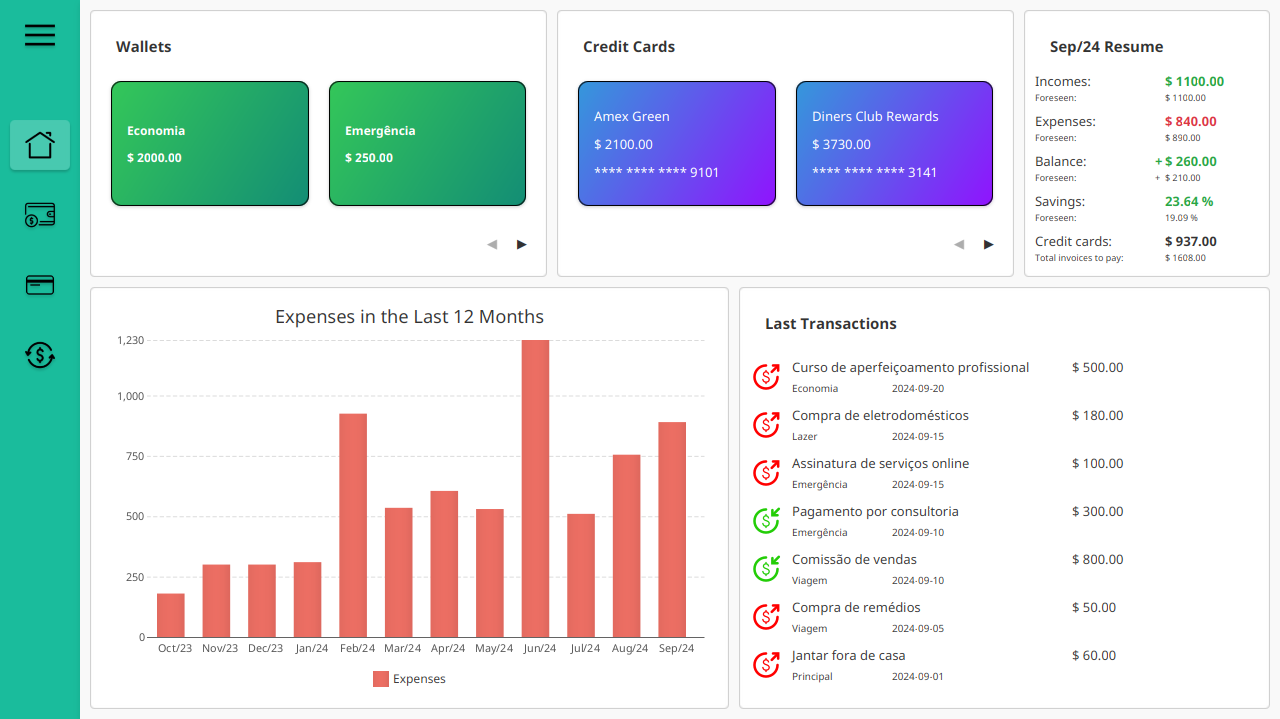
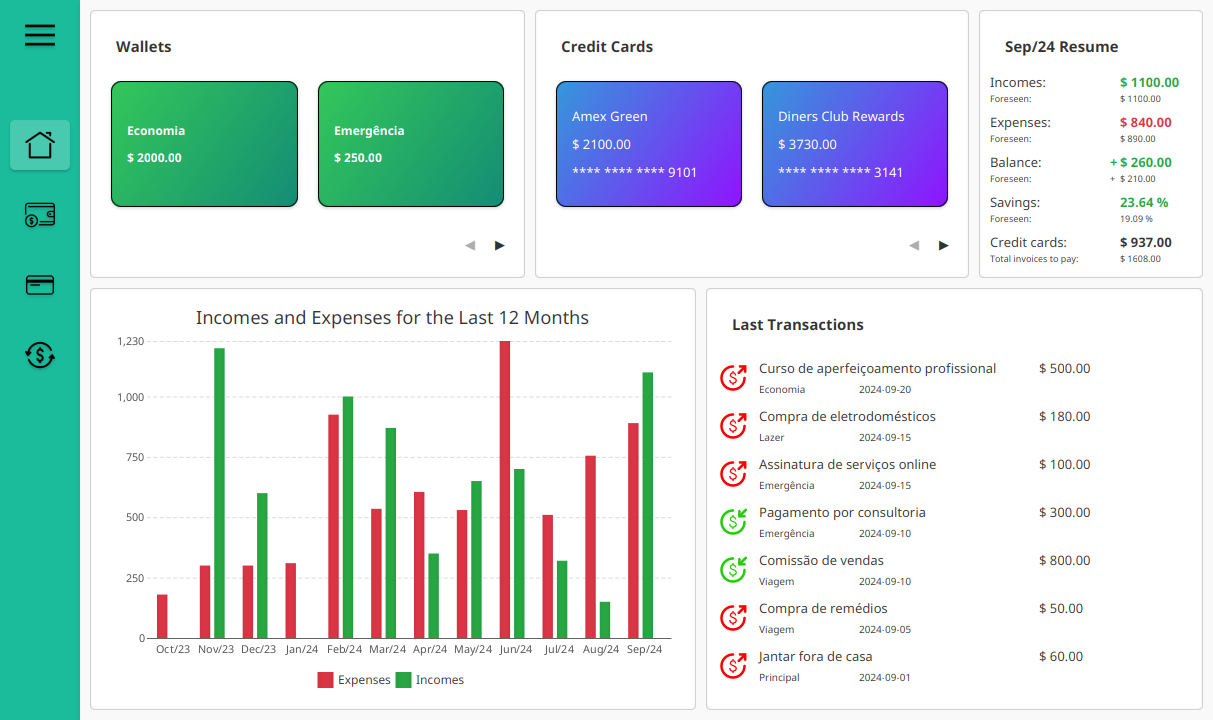
Adicioner incomes ao gráfico de barras

diff --git a/src/main/resources/css/home.css b/src/main/resources/css/home.css
@@ -113,7 +113,11 @@
   -fx-alignment: CENTER_LEFT;
 }
 .default-color0.chart-bar {
-  -fx-bar-fill: #ec7063;
+  -fx-bar-fill: #dc3545;
+}
+
+.default-color1.chart-bar {
+  -fx-bar-fill: #28a745;
 }
 
 .chart-plot-background {

diff --git a/src/main/java/com/mymoney/ui/HomeController.java b/src/main/java/com/mymoney/ui/HomeController.java
@@ -74,7 +74,7 @@ public class HomeController
     private VBox lastTransactionsVBox;
 
     @FXML
-    private BarChart<String, Double> expensesLast12Months;
+    private BarChart<String, Double> transactionsLast12Months;
 
     @FXML
     private Label monthResumePaneTitle;
@@ -157,7 +157,7 @@ public class HomeController
         UpdateDisplayWallets();
         UpdateDisplayCreditCards();
         UpdateDisplayLastTransactions();
-        UpdateChartExpensesLast12Months();
+        UpdateChartIncomesAndExpensesLast12Months();
         UpdateMonthResume();
 
         SetButtonsActions();
@@ -377,116 +377,141 @@ public class HomeController
     }
 
     /**
-     * Update the expenses chart
+     * Update the chart with incomes and expenses for the last 12 months
      */
-    private void UpdateChartExpensesLast12Months()
+    private void UpdateChartIncomesAndExpensesLast12Months()
     {
-        Map<String, Double> monthlyExpenses =
-            new LinkedHashMap<>(); // To keep the order
+        // LinkedHashMap to keep the order of the months
+        Map<String, Double> monthlyExpenses = new LinkedHashMap<>();
+        Map<String, Double> monthlyIncomes  = new LinkedHashMap<>();
 
         LocalDate         currentDate = LocalDate.now();
         DateTimeFormatter formatter   = DateTimeFormatter.ofPattern("MMM/yy");
 
+        // Collect data for the last 12 months
         for (Integer i = 0; i < Constants.HOME_BAR_CHART_MONTHS; i++)
         {
             // Get the data from the oldest month to the most recent, to keep the order
-            // in the chart
             LocalDate date =
                 currentDate.minusMonths(Constants.HOME_BAR_CHART_MONTHS - i - 1);
-
             Integer month = date.getMonthValue();
             Integer year  = date.getYear();
 
+            // Get transactions
             List<WalletTransaction> transactions =
                 walletService.GetAllTransactionsByMonth(month, year);
-
             m_logger.info("Found " + transactions.size() + " transactions for " +
                           month + "/" + year);
 
-            Double total = transactions.stream()
-                               .filter(t -> t.GetType() == TransactionType.EXPENSE)
-                               .mapToDouble(WalletTransaction::GetAmount)
-                               .sum();
+            // Calculate total expenses for the month
+            Double totalExpenses =
+                transactions.stream()
+                    .filter(t -> t.GetType() == TransactionType.EXPENSE)
+                    .mapToDouble(WalletTransaction::GetAmount)
+                    .sum();
 
-            monthlyExpenses.put(date.format(formatter), total);
+            // Calculate total incomes for the month
+            Double totalIncomes =
+                transactions.stream()
+                    .filter(t -> t.GetType() == TransactionType.INCOME)
+                    .mapToDouble(WalletTransaction::GetAmount)
+                    .sum();
+
+            monthlyExpenses.put(date.format(formatter), totalExpenses);
+            monthlyIncomes.put(date.format(formatter), totalIncomes);
         }
 
-        // Get the maximum value to set the axis
-        Double maxExpenseValue = 0.0;
+        // Create two series: one for incomes and one for expenses
+        XYChart.Series<String, Double> expensesSeries = new XYChart.Series<>();
+        expensesSeries.setName("Expenses");
 
-        XYChart.Series<String, Double> series = new XYChart.Series<>();
-        series.setName("Expenses");
+        XYChart.Series<String, Double> incomesSeries = new XYChart.Series<>();
+        incomesSeries.setName("Incomes");
 
+        Double maxValue = 0.0;
+
+        // Add data to each series
         for (Map.Entry<String, Double> entry : monthlyExpenses.entrySet())
         {
-            series.getData().add(new XYChart.Data<>(entry.getKey(), entry.getValue()));
-            maxExpenseValue = Math.max(maxExpenseValue, entry.getValue());
+            String month        = entry.getKey();
+            Double expenseValue = entry.getValue();
+            Double incomeValue  = monthlyIncomes.getOrDefault(month, 0.0);
+
+            expensesSeries.getData().add(new XYChart.Data<>(month, expenseValue));
+            incomesSeries.getData().add(new XYChart.Data<>(month, incomeValue));
+
+            maxValue = Math.max(maxValue, Math.max(expenseValue, incomeValue));
         }
 
-        // Set the maximum value for the Y axis as the maximum expense value
-        Axis<?> yAxis = expensesLast12Months.getYAxis();
+        // Set Y-axis limits based on the maximum value found
+        Axis<?> yAxis = transactionsLast12Months.getYAxis();
         if (yAxis instanceof NumberAxis)
         {
             NumberAxis numberAxis = (NumberAxis)yAxis;
             numberAxis.setAutoRanging(false);
             numberAxis.setLowerBound(0);
-            numberAxis.setUpperBound(maxExpenseValue);
+            numberAxis.setUpperBound(maxValue);
             numberAxis.setTickUnit(Constants.HOME_BAR_CHART_TICK_UNIT);
         }
 
-        expensesLast12Months.setVerticalGridLinesVisible(false);
-        expensesLast12Months.setTitle("Expenses in the Last " +
-                                      Constants.HOME_BAR_CHART_MONTHS + " Months");
+        transactionsLast12Months.setVerticalGridLinesVisible(false);
+        transactionsLast12Months.setTitle("Incomes and Expenses for the Last " +
+                                          Constants.HOME_BAR_CHART_MONTHS + " Months");
 
-        expensesLast12Months.getData().clear();
-        expensesLast12Months.getData().add(series);
+        // Clear previous data and add the new series (expenses and incomes)
+        transactionsLast12Months.getData().clear();
+        transactionsLast12Months.getData().add(expensesSeries);
+        transactionsLast12Months.getData().add(incomesSeries);
 
-        // Animate the chart
-        for (XYChart.Data<String, Double> data : series.getData())
+        // Add tooltips to the bars
+        AddTooltipToBars(expensesSeries);
+        AddTooltipToBars(incomesSeries);
+
+        for (XYChart.Series<String, Double> series : transactionsLast12Months.getData())
         {
-            Double targetValue = data.getYValue();
-            data.setYValue(0.0);
+            for (XYChart.Data<String, Double> data : series.getData())
+            {
+                Double targetValue = data.getYValue();
+                data.setYValue(0.0);
 
-            AnimationTimer timer = new AnimationTimer() {
-                private Long         lastUpdate   = 0L;
-                private Double       currentValue = 0.0;
-                private final Double increment =
-                    targetValue / Constants.HOME_BAR_CHART_ANIMATION_FRAMES;
+                AnimationTimer timer = new AnimationTimer() {
+                    private Long         lastUpdate   = 0L;
+                    private Double       currentValue = 0.0;
+                    private final Double increment =
+                        targetValue / Constants.HOME_BAR_CHART_ANIMATION_FRAMES;
+                    Double elapsed = 0.0;
 
-                Double elapsed = 0.0;
-
-                @Override
-                public void handle(long now)
-                {
-                    if (lastUpdate == 0)
+                    @Override
+                    public void handle(long now)
                     {
-                        lastUpdate = now;
-                    }
-
-                    elapsed += (now - lastUpdate) / Constants.ONE_SECOND_IN_NS;
-
-                    if (elapsed >= Constants.HOME_BAR_CHART_ANIMATION_DURATION)
-                    {
-                        currentValue = targetValue;
-                        data.setYValue(currentValue);
-                        stop();
-                    }
-                    else
-                    {
-                        currentValue += increment;
-
-                        if (currentValue > targetValue)
+                        if (lastUpdate == 0)
                         {
-                            currentValue = targetValue;
+                            lastUpdate = now;
                         }
 
-                        data.setYValue(currentValue);
-                    }
+                        elapsed += (now - lastUpdate) / Constants.ONE_SECOND_IN_NS;
 
-                    lastUpdate = now;
-                }
-            };
-            timer.start();
+                        if (elapsed >= Constants.HOME_BAR_CHART_ANIMATION_DURATION)
+                        {
+                            currentValue = targetValue;
+                            data.setYValue(currentValue);
+                            stop();
+                        }
+                        else
+                        {
+                            currentValue += increment;
+                            if (currentValue > targetValue)
+                            {
+                                currentValue = targetValue;
+                            }
+                            data.setYValue(currentValue);
+                        }
+
+                        lastUpdate = now;
+                    }
+                };
+                timer.start();
+            }
         }
     }
 
@@ -873,6 +898,24 @@ public class HomeController
         vbox.getChildren().addAll(nameLabel, balanceLabel);
 
         return vbox;
+    }
+
+    /**
+     * Add a tooltip to the bars of the chart
+     * @param series The series to add the tooltip
+     */
+    private void AddTooltipToBars(XYChart.Series<String, Double> series)
+    {
+        for (XYChart.Data<String, Double> data : series.getData())
+        {
+            String tooltipText = String.format("%.2f", data.getYValue());
+            AddTooltipToNode(data.getNode(), tooltipText);
+
+            data.getNode().setOnMouseEntered(
+                event -> { data.getNode().setStyle("-fx-opacity: 0.7;"); });
+            data.getNode().setOnMouseExited(
+                event -> { data.getNode().setStyle("-fx-opacity: 1;"); });
+        }
     }
 
     /**
